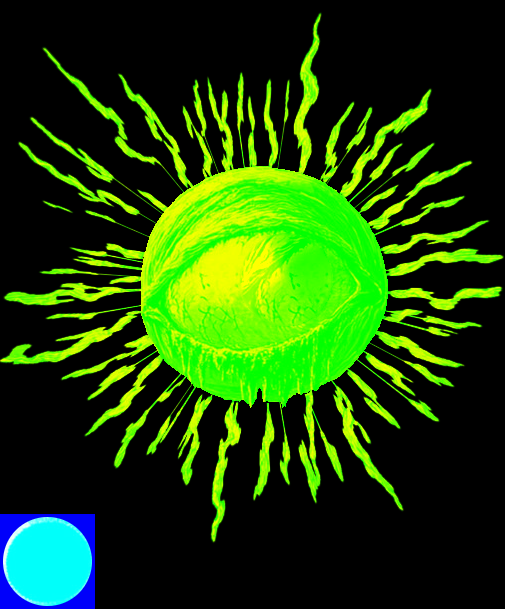
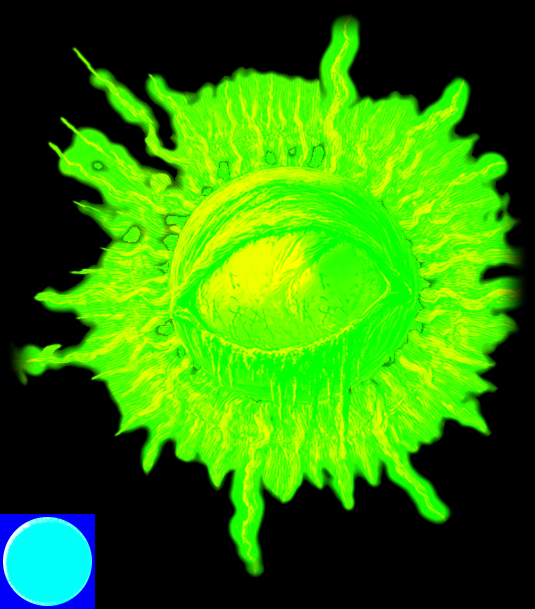
Paranoia: a coroa de raios inteira de volta, fluindo presa ao olho
Os raios separados um a um ficavam com espaço entre eles. Volta a coroa do
desenho, com todas as camadas de raios: em polar, é o que é mais claro que
o céu daquele ângulo ou tem a textura de linhas finas radiais (o céu não
tem); o miolo fica cheio e o contorno segue as pontas. Sai só o céu de
fora. O recorte vai 30 px mais à esquerda (lá a coroa passava do quadro do
fundo segmentado), e na borda da direita (a torre) cada raio some na
direção dele, sem corte reto.

O fluxo continua num campo só, mais leve e com onda mais longa, para os
raios longos não se partirem ao falar.

diff --git a/orbe-qt/comum/Figura.qml b/orbe-qt/comum/Figura.qml
@@ -252,8 +252,8 @@ Item {
         if (!humana) {
             // os raios fluem presos ao olho: a ondulação corre do olho para fora,
             // com a amplitude numa mola que cada sílaba chuta
-            var alvoA = mistura({ idle: 3.0, listening: 2.0, thinking: 5.0, tools: 3.5, speaking: 4.0 }) + 6 * falar - 3 * (1 - dG)
-            if (chute > 0) pc.vamp += chute * 25
+            var alvoA = mistura({ idle: 2.0, listening: 1.5, thinking: 3.5, tools: 2.5, speaking: 3.0 }) + 3 * falar - 2 * (1 - dG)
+            if (chute > 0) pc.vamp += chute * 12
             pc.vamp += (30 * (alvoA - pc.amp) - 7 * pc.vamp) * dt
             pc.amp = Math.max(0, pc.amp + pc.vamp * dt)
             pc.fluxo += dt * (mistura({ idle: 1.4, listening: 1.0, thinking: 2.6, tools: 3.6, speaking: 2.0 }) + 1.5 * falar)

diff --git a/orbe-qt/teste/repouso.py b/orbe-qt/teste/repouso.py
@@ -14,7 +14,7 @@ AQUI = Path(__file__).resolve().parent
 # recorte, ponto OLHO e RIMG de cada uma (os do imagem.frag) e, no Olho, a peça
 # guardada num canto (o disco da íris: canto, centro do canto, centro no olho,
 # lado): na pose desenhada ela volta ao lugar, e o canto fica vazio
-SKINS = {"olho": ((505, 609), (260.0, 284.5), 270.0, ((0, 514), (47.5, 561.5), (285.5, 279.6), 95)),
+SKINS = {"olho": ((535, 609), (290.0, 284.5), 270.0, ((0, 514), (47.5, 561.5), (315.5, 279.6), 95)),
          "humana": ((517, 492), (258.5, 246.0), 255.0, None)}
 
 def ler(caminho):
